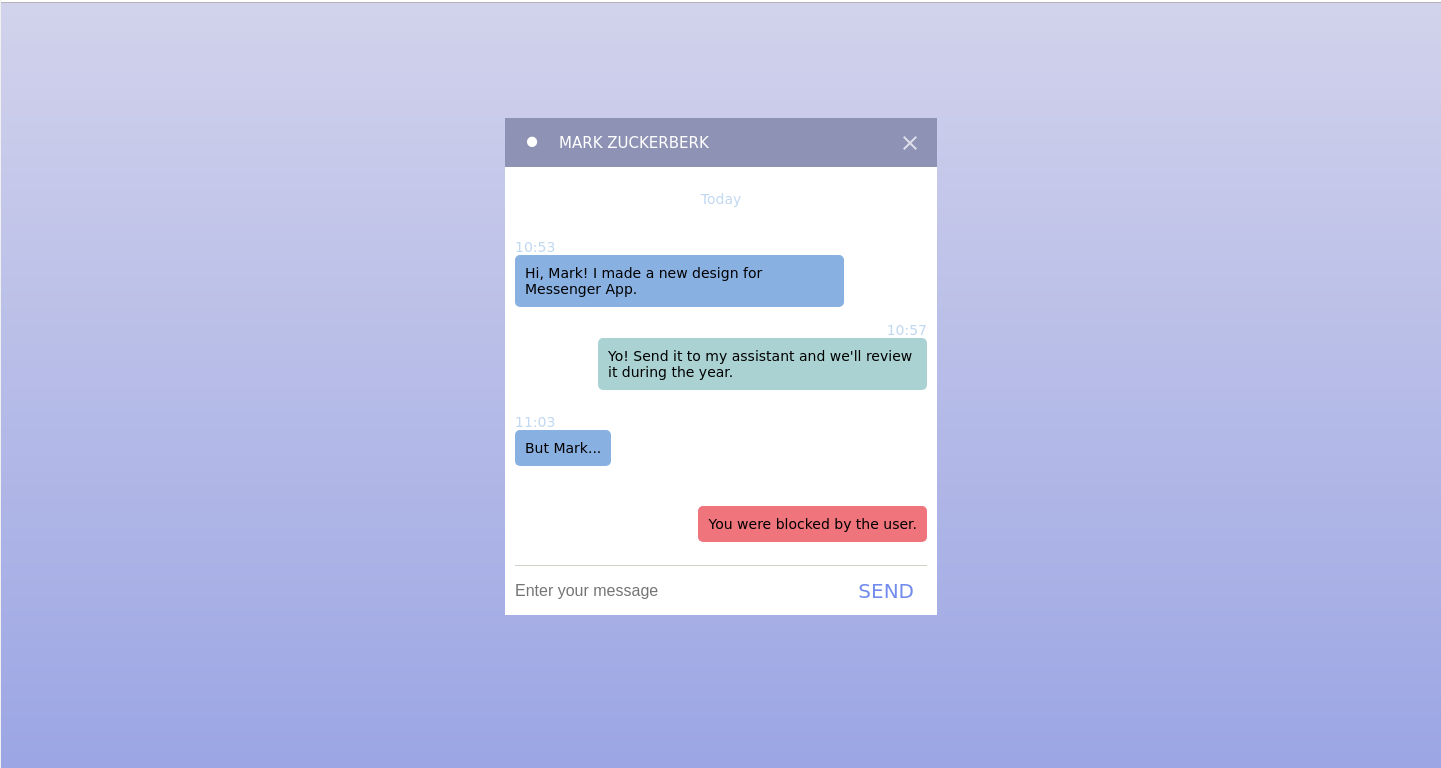
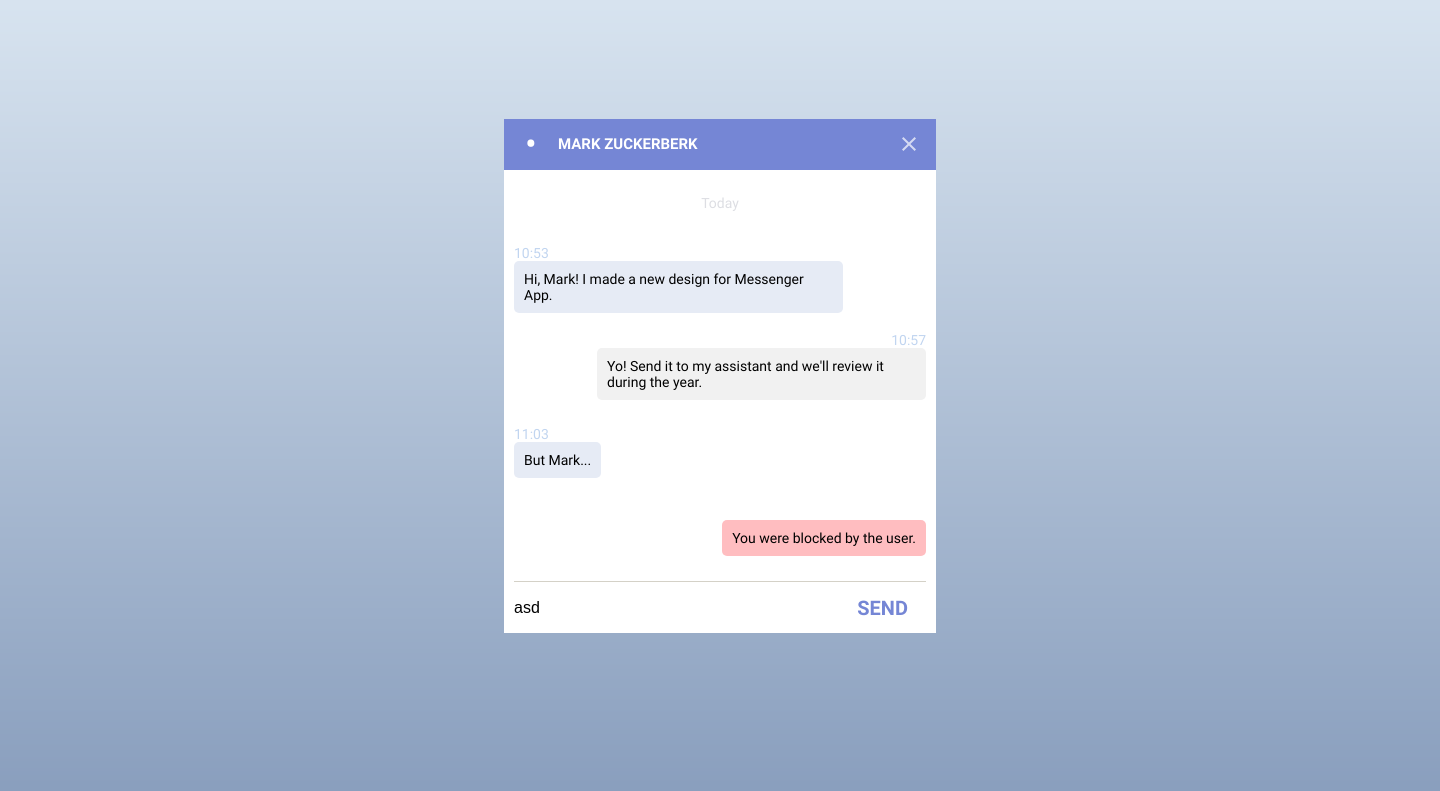
some colors refactors

diff --git a/frontloops/1-loop/4-step/src/styles.css b/frontloops/1-loop/4-step/src/styles.css
@@ -5,7 +5,7 @@
 body, html {
   width: 100%;
   height: 100%;
-  background-image: linear-gradient(rgb(209, 214, 236), rgb(151, 172, 228));
+  background-image: linear-gradient(#d8e6f1, #87a5c0);
   font-family: Roboto , Verdana, Geneva, Tahoma, sans-serif;
 }
 body {
@@ -22,7 +22,7 @@ body {
 }
 .header {
   display: flex;
-  background-color: rgb(140, 151, 182);
+  background-color: #6a96d8;
   flex-direction: row;
   align-items: center;
   color: white;
@@ -62,7 +62,7 @@ body {
 }
 .date-day span {
   padding: 0 5px;
-  color: rgb(192, 218, 241);
+  color: #dee0e4;
 }
 .message {
   flex: 2;
@@ -87,13 +87,13 @@ body {
   align-items: flex-start;
 }
 .message.me div{
-  background-color: rgb(173, 210, 211);
+  background-color: #f2f2f2;
 }
 .message.them div{
-  background-color: rgb(131, 180, 226);
+  background-color: #e6edf6;
 }
 .message.danger div{
-  background-color: rgb(240, 122, 122);
+  background-color: #ffc2c1;
 }
 .user_message{
   align-items: center;
@@ -110,7 +110,7 @@ body {
 }
 .user_message .user_send{
   font-weight: 600;
-  color: cornflowerblue;
+  color: #6a96d8;
   font-size: 20px;
   flex: 1;
   text-transform: uppercase;
